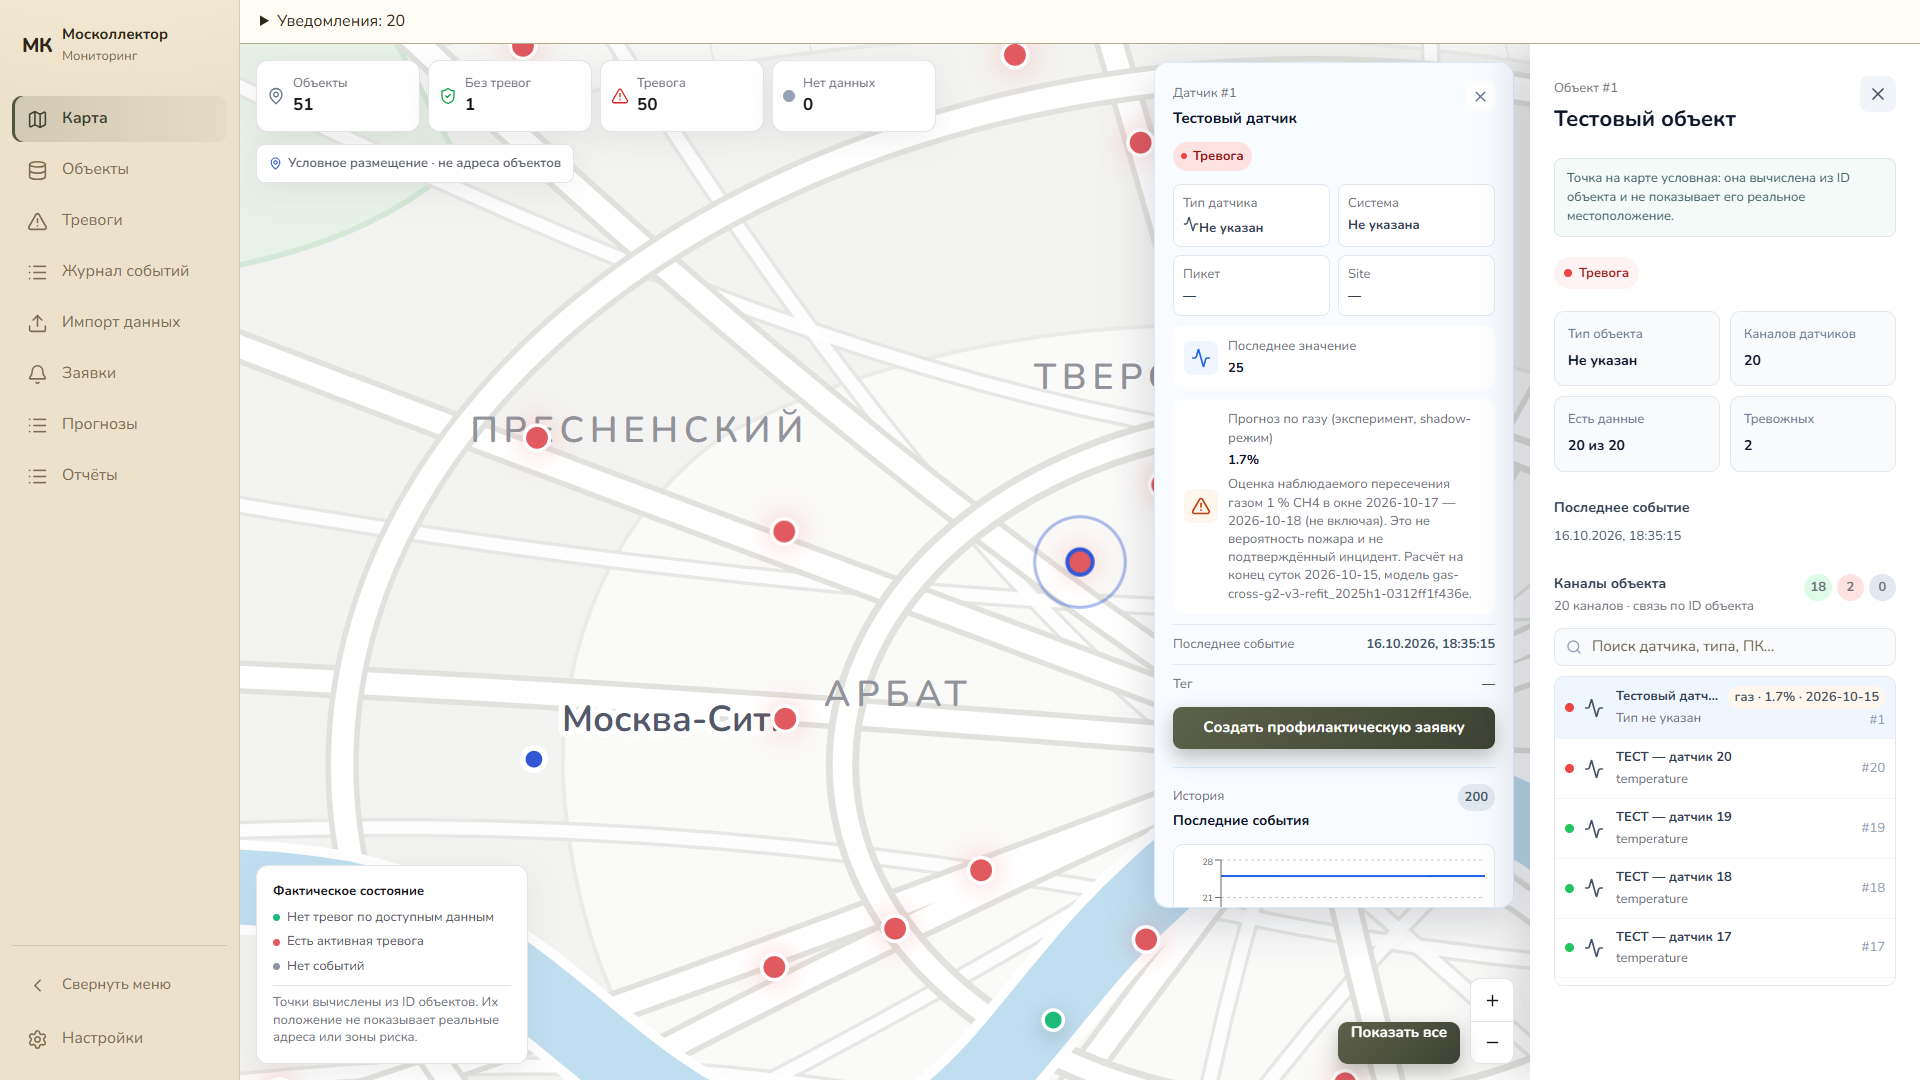
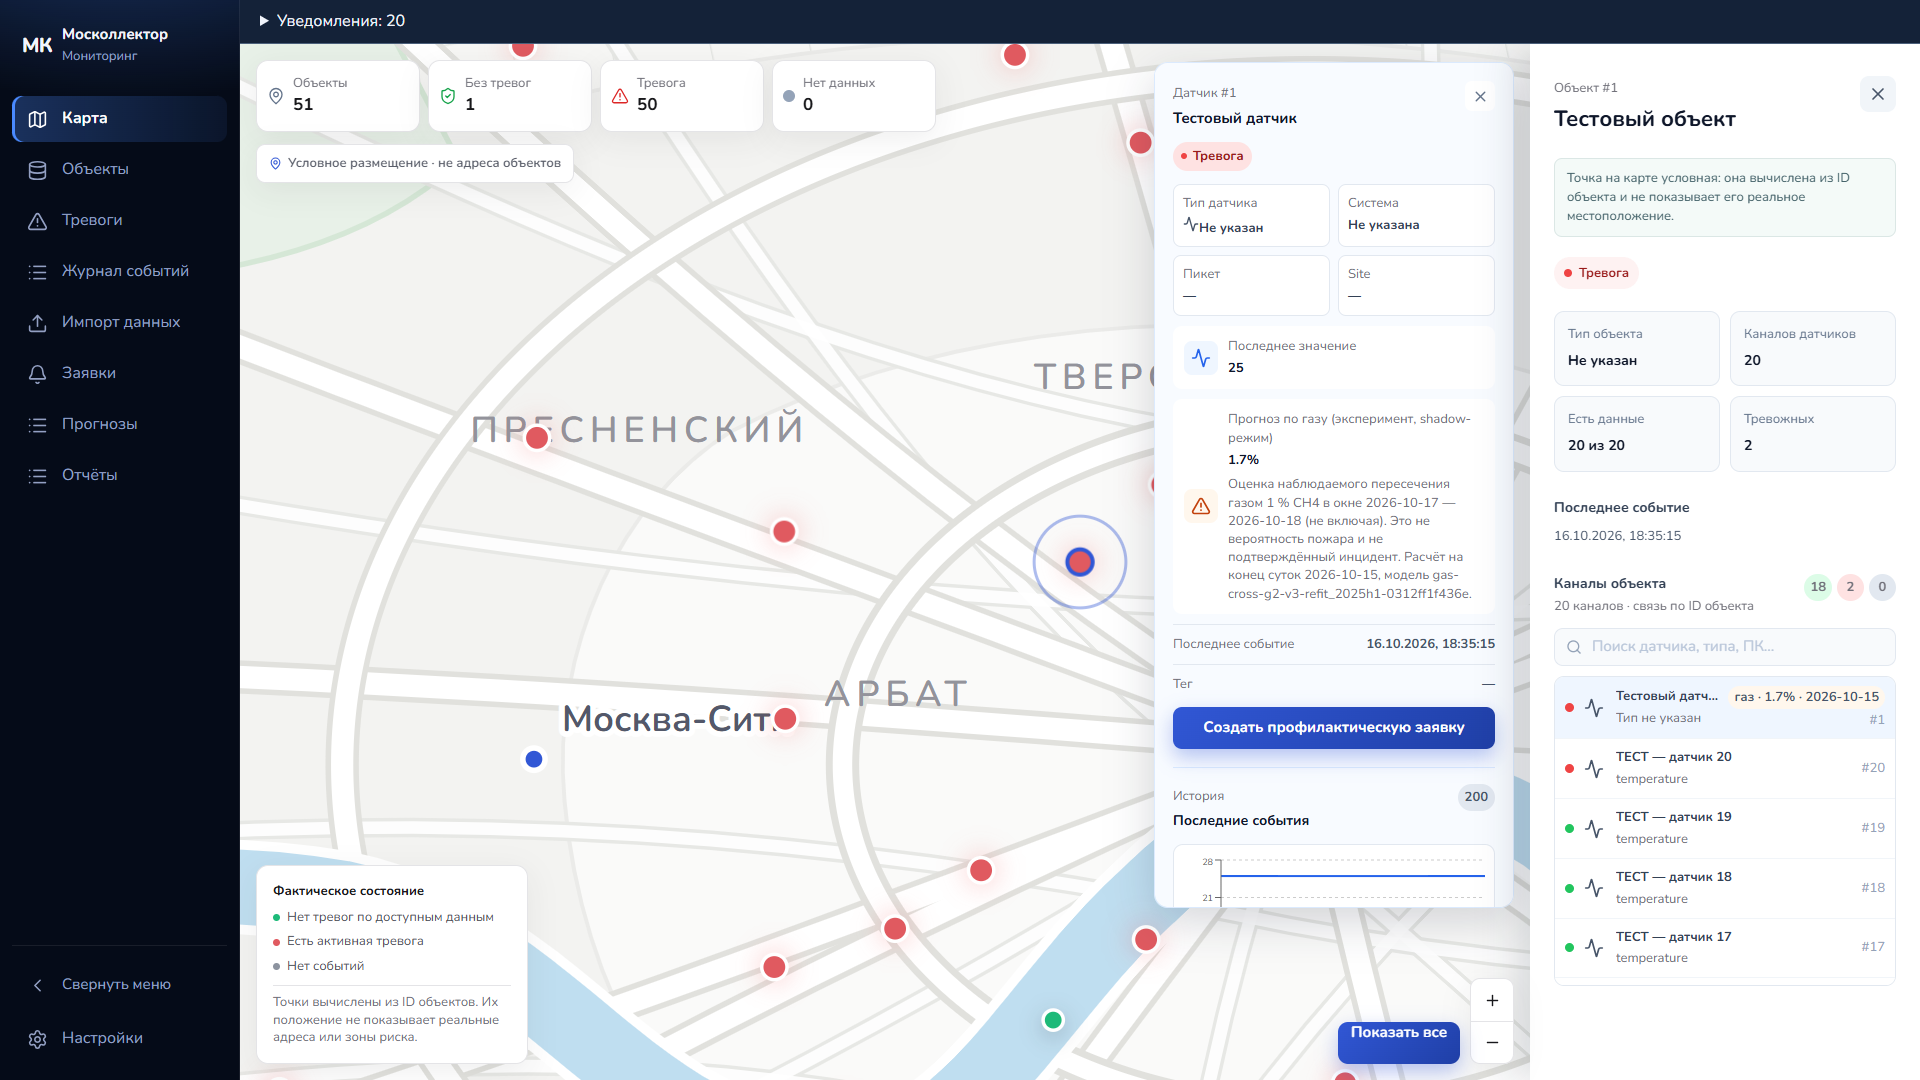
test: capture dark compact map and sidebar acceptance views

Changed region(s): [[0.0, 0.0, 1.0, 1.0], [0.5938, 0.6417, 0.7812, 0.7028], [0.6875, 0.9472, 0.7812, 1.0]]

diff --git a/frontend/e2e/ui-fixes.spec.ts b/frontend/e2e/ui-fixes.spec.ts
@@ -237,6 +237,7 @@ test('requested visual matrix for both themes and reduced desktop',async({page})
       measurements.push({theme,width,height,path,...dimensions});
     }
   }
+  await page.evaluate(()=>localStorage.setItem('settings.theme','dark'));
   await page.setViewportSize({width:1024,height:700});
   await page.goto('/?objectId=1&channelId=1');await expect(page.locator('.object-drawer')).toBeVisible();
   await page.screenshot({path:`${dir}/reduced-1024-map-drawer.png`});
